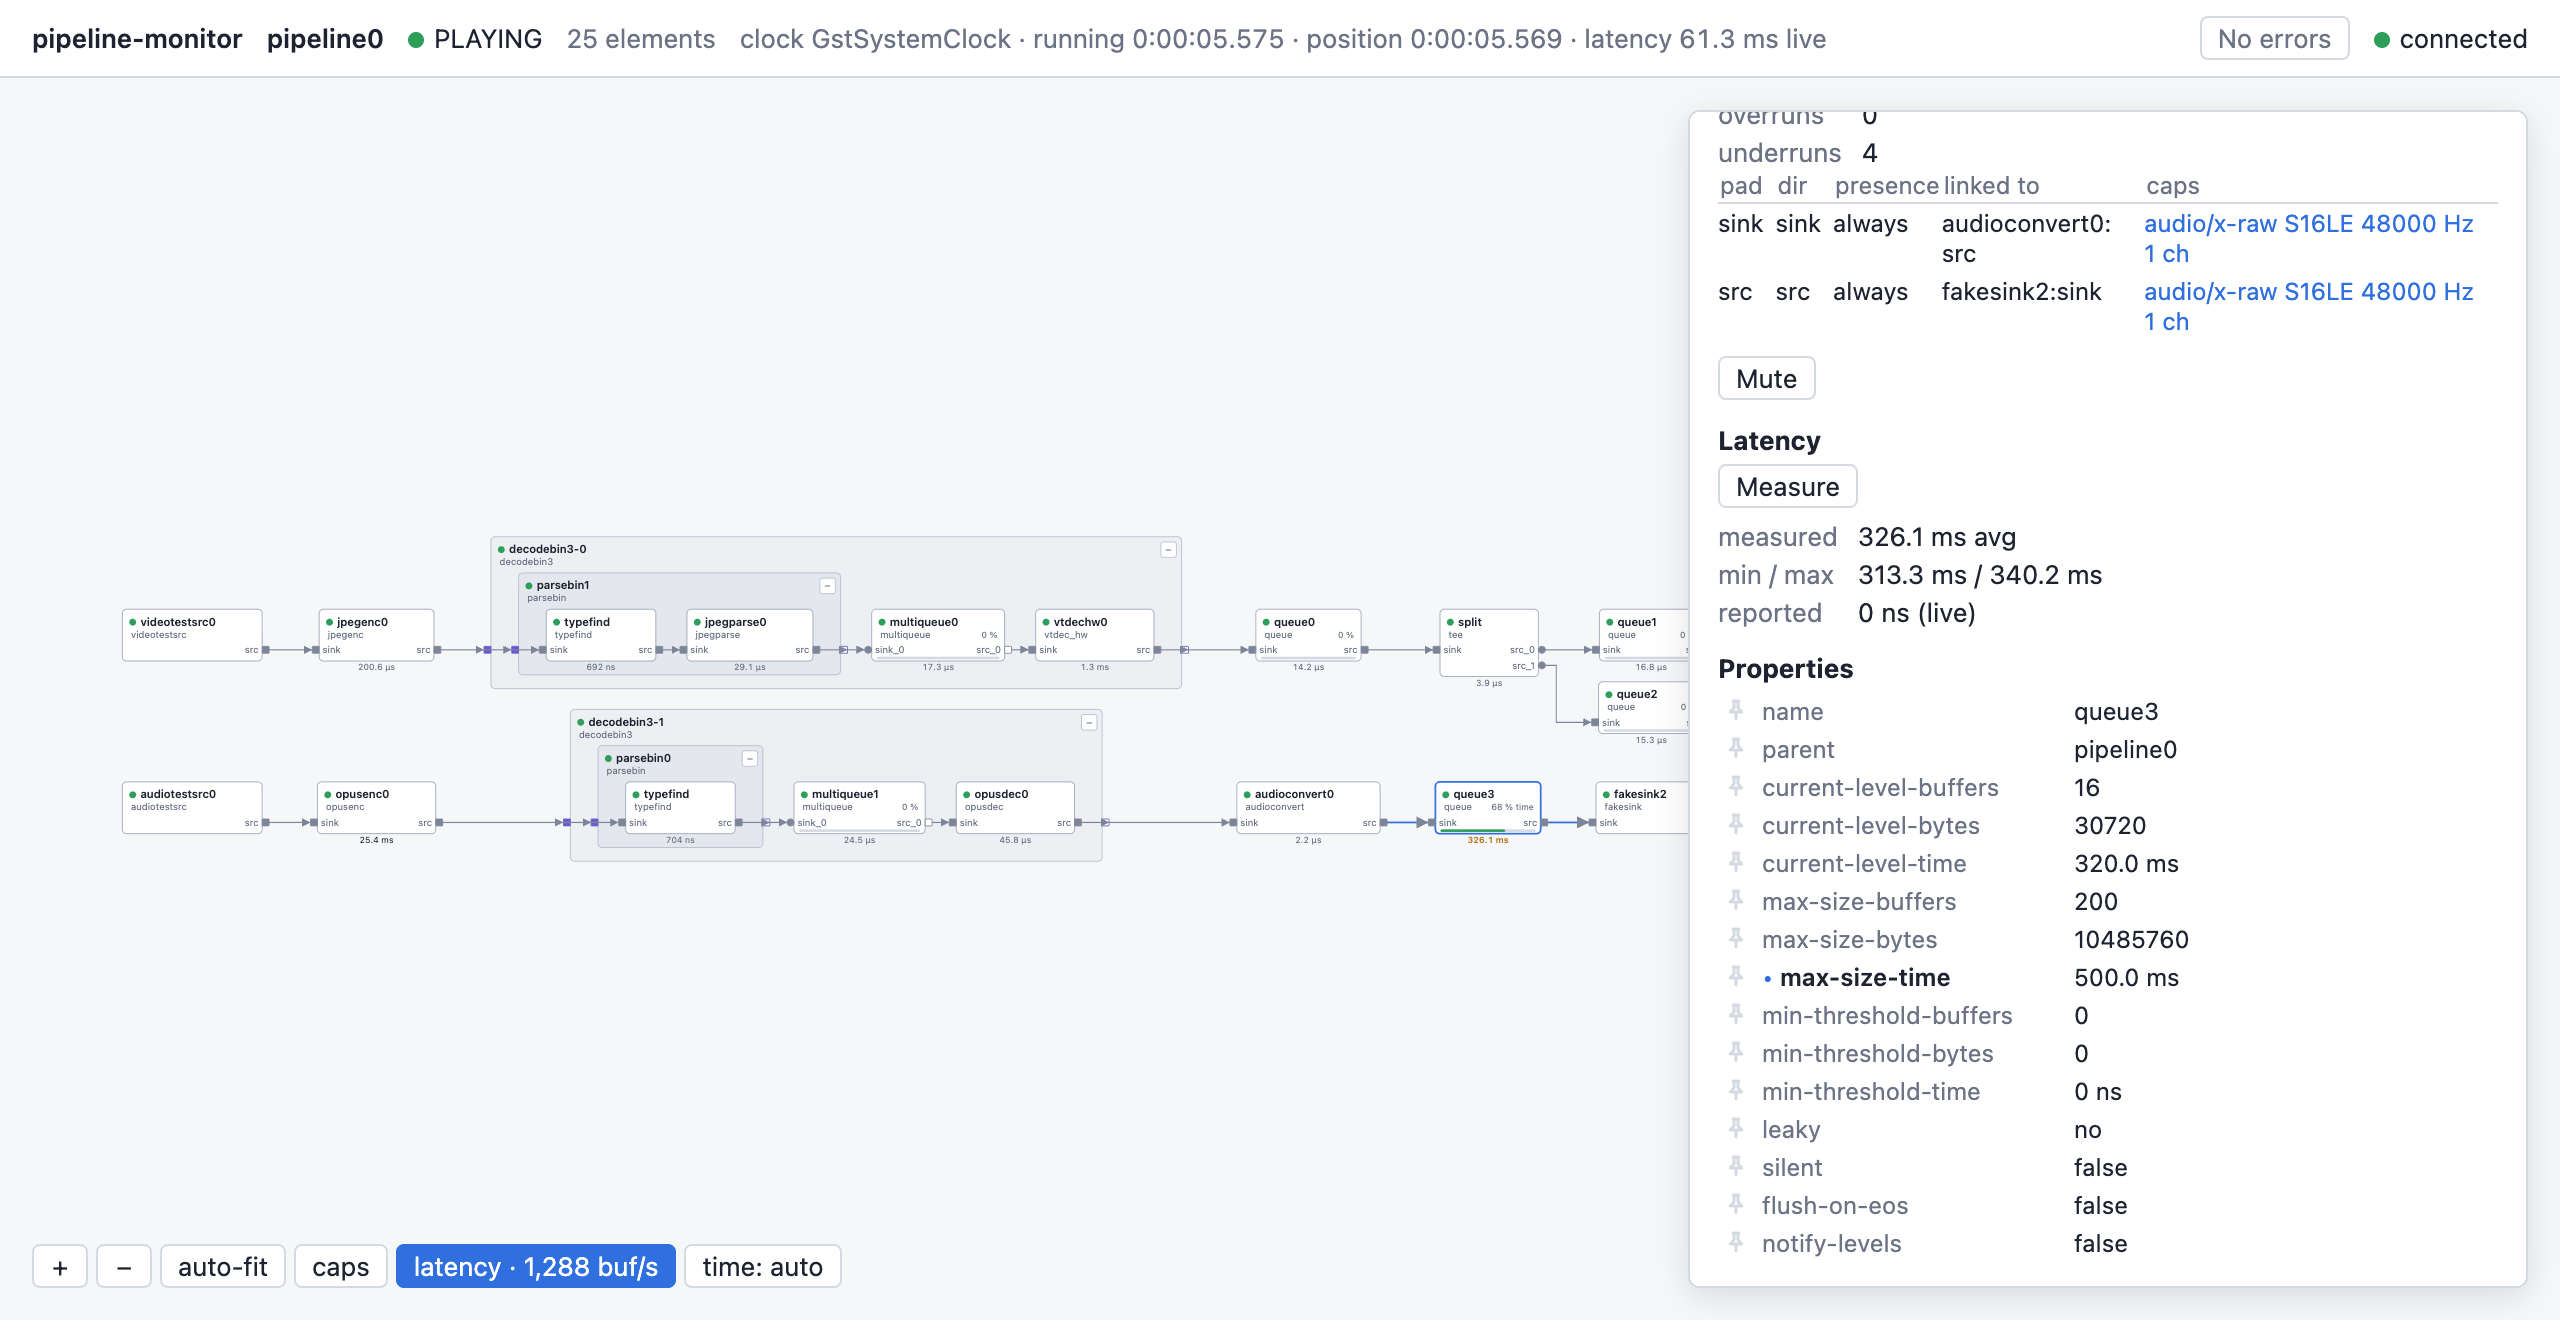
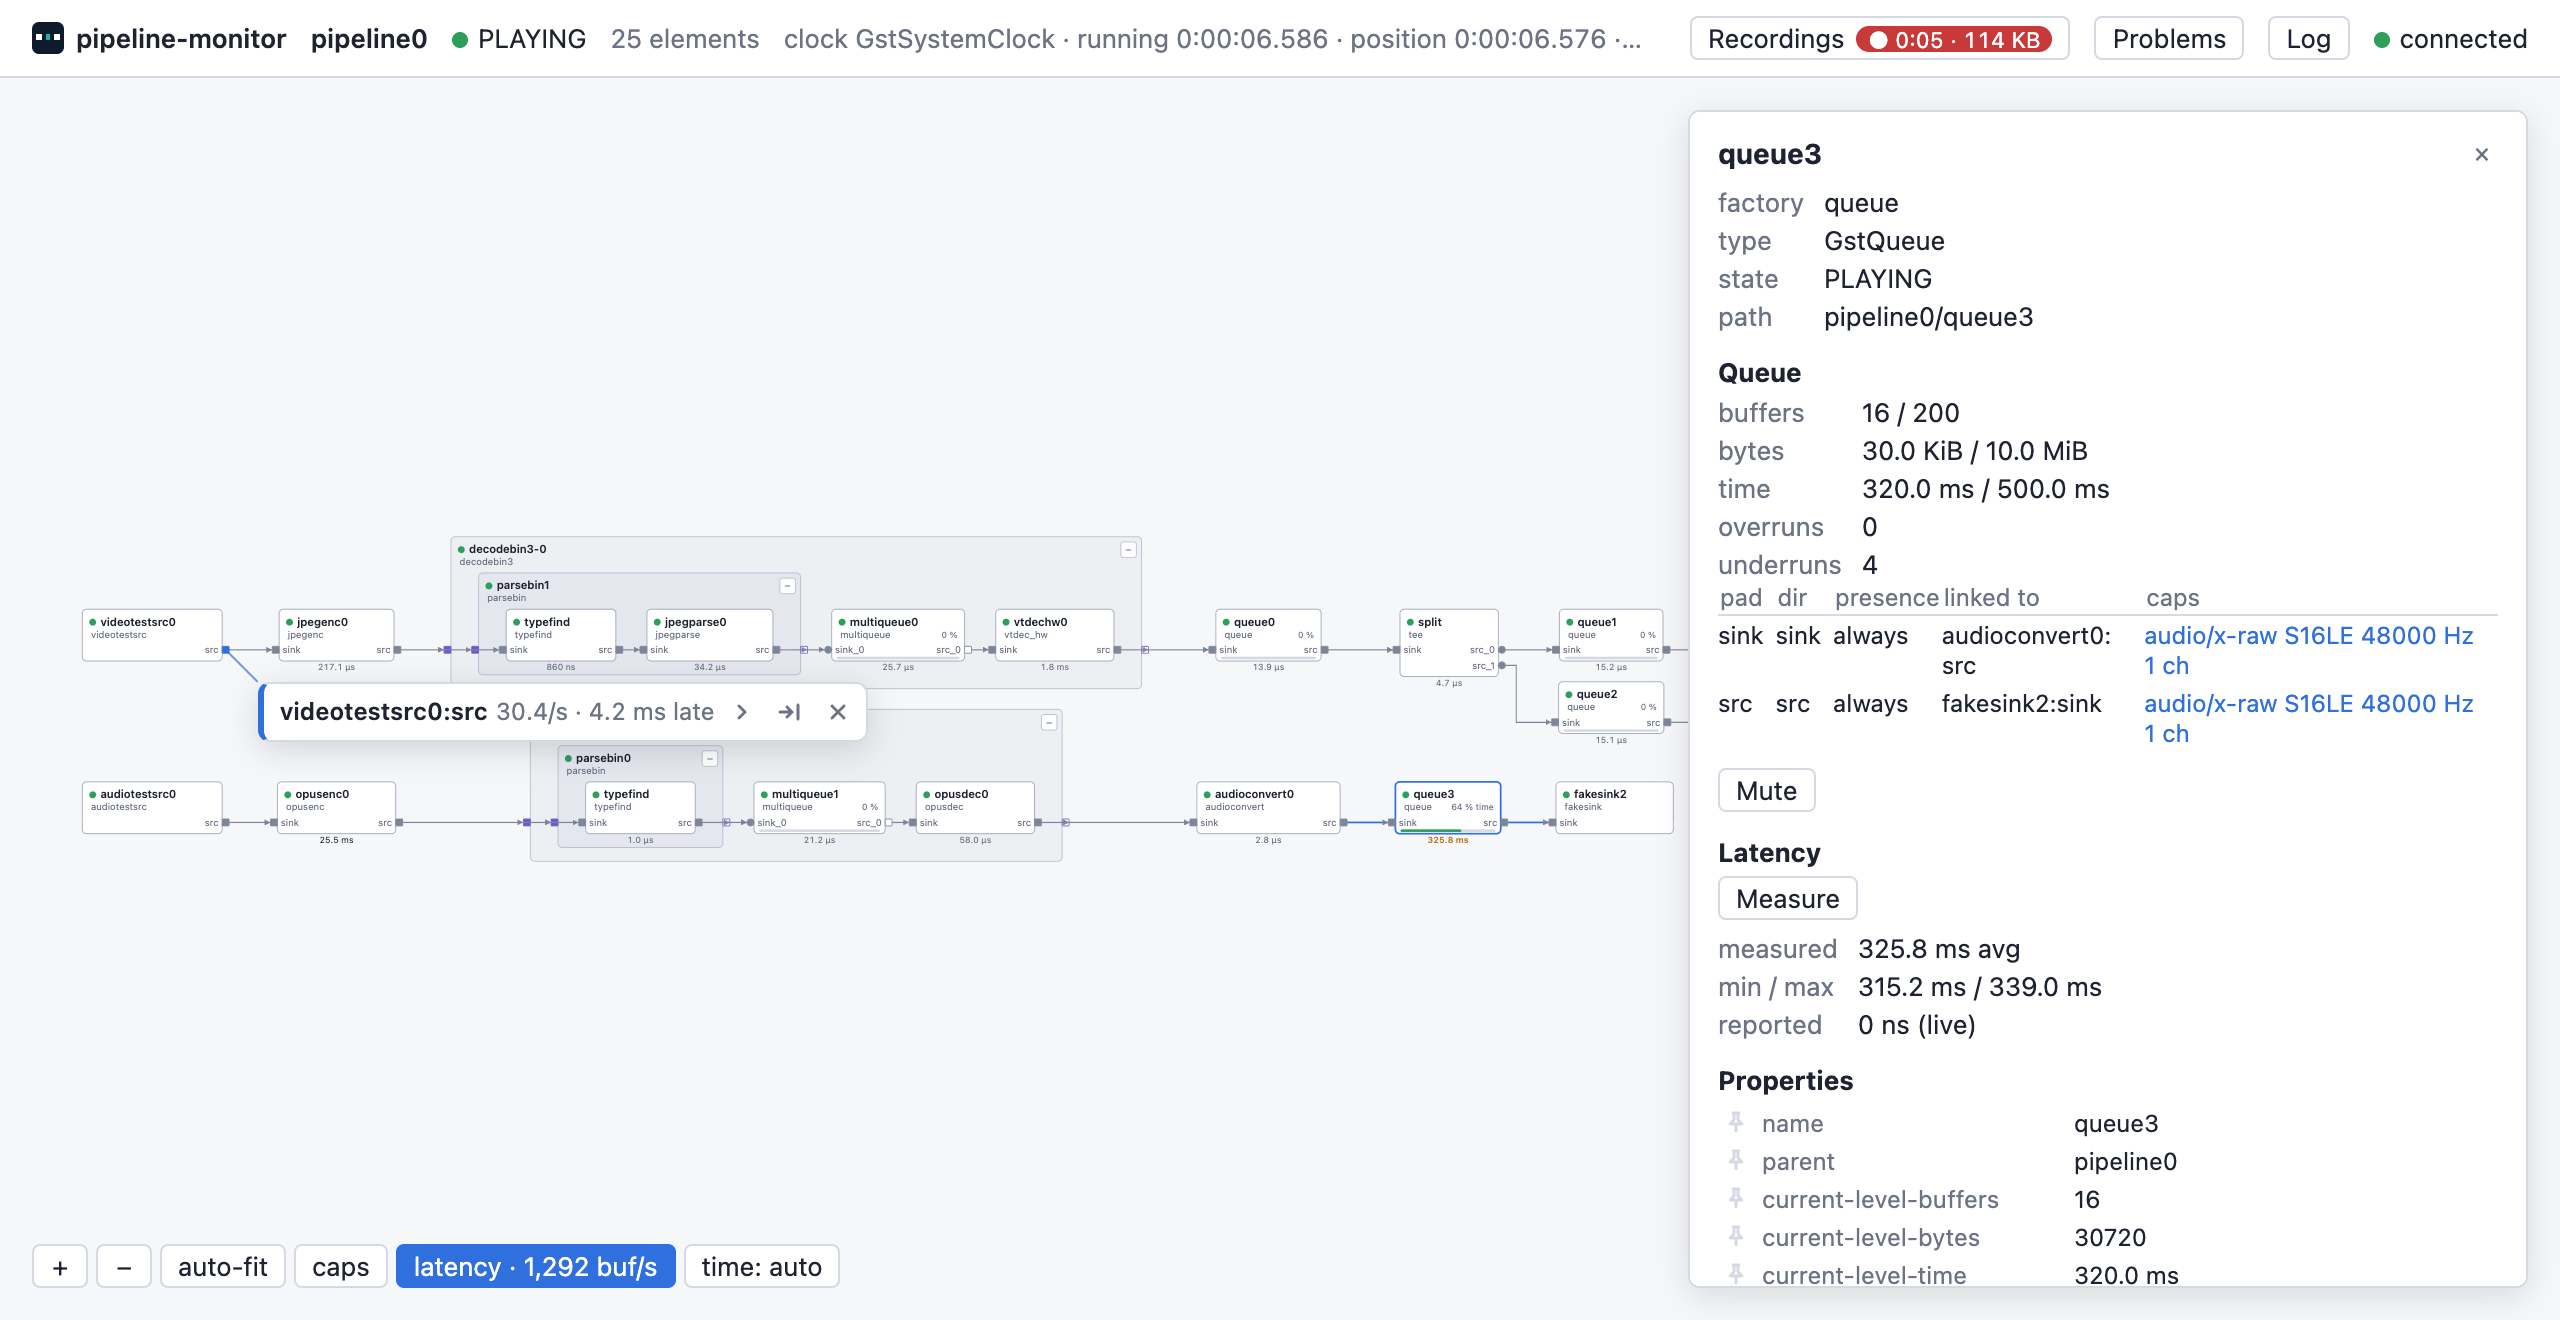
Refresh the README screenshot and the social preview

diff --git a/tests/test_ui.py b/tests/test_ui.py
@@ -1830,25 +1830,35 @@ def screenshot(browser, url, path):
     browser.call("Page.navigate", url=url)
     assert browser.wait(f"{NODES} > 0")
     time.sleep(1)
-    # "Measure all" on: a latency label under every element; the audio
-    # queue's details open at its latency, measured against reported.
+    # A recording running: its time and size in the header.
+    open_panel(browser, "recordings")
+    browser.wait("!document.getElementById('record').disabled")
+    browser.click("#record")
+    browser.wait("!!document.querySelector('#recordings-counter .count')")
+    close_panel(browser, "recordings")
+    # "Measure all" on: a latency label under every element.
     browser.click("#measure-all")
     browser.wait("document.querySelectorAll('#graph .latency-text').length "
                  ">= 5", timeout=6)
+    # The video source's pad pinned, folded to its summary line.
+    src = browser.eval(f"{element_selector('videotestsrc0')}?.dataset.id")
+    browser.click_until(f'#graph .node[data-id="{src}"] .pad[data-port]',
+                        "document.querySelectorAll('.pin-card').length === 1")
+    browser.click(".pin-card .pin-fold")
+    browser.wait("document.querySelector('.pin-card')"
+                 ".classList.contains('folded')")
+    # The audio queue's details: its level, latency and properties.
     queue = browser.eval(f"{element_selector('queue3')}?.dataset.id")
     section = "document.querySelector('#details .latency-section')"
     browser.click_until(f'#graph .node[data-id="{queue}"] > rect.box',
                         f"/ms avg/.test({section}?.textContent)")
-    browser.eval("document.querySelector('#details').scrollTop = "
-                 "document.querySelector('#details .latency-section')"
-                 ".offsetTop - 40")
     # Smaller and to the left, so the queue is not under the panel.
     browser.click("#zoom-out")
     for kind, x in (("mousePressed", 700), ("mouseMoved", 620),
-                    ("mouseMoved", 610), ("mouseReleased", 610)):
+                    ("mouseMoved", 590), ("mouseReleased", 590)):
         browser.call("Input.dispatchMouseEvent", type=kind, x=x, y=120,
                      button="left", buttons=1, clickCount=1)
-    time.sleep(3)
+    time.sleep(4)
     browser.screenshot(path)
 
 

diff --git a/README.md b/README.md
@@ -2,7 +2,7 @@
 
 See a running GStreamer pipeline live in your browser.
 
-![pipeline-monitor measuring latency: a label under every element, the audio queue's details with its measured and reported latency, and its properties](.github/screenshot.png)
+![pipeline-monitor recording a pipeline: latency under every element, a pinned pad's live values, and the audio queue's level, latency and properties](.github/screenshot.png)
 
 Short videos: [Fix your GStreamer pipeline](https://www.youtube.com/playlist?list=PLHYOr70akpmI)
 on YouTube, one problem per episode.
